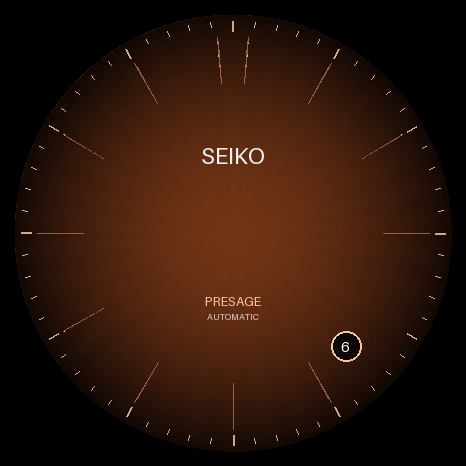
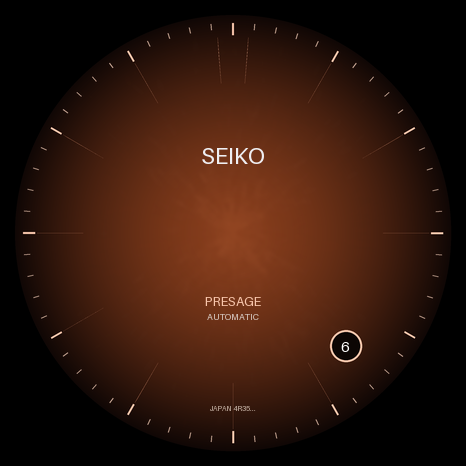
feat: high fidelity premium assets matching exact Seiko SRPB46 image

diff --git a/scripts/generate_seiko_premium.py b/scripts/generate_seiko_premium.py
@@ -1,0 +1,162 @@
+import os
+import math
+import random
+from PIL import Image, ImageDraw, ImageFilter
+
+# 466x466 Huawei Watch GT4 Standart Çözünürlüğü
+CANVAS_SIZE = (466, 466)
+CENTER = (233, 233)
+RADIUS = 218
+
+# Çıktı Yolları
+RAW_BG = "assets/raw/bg/seiko_presage_bg.png"
+RAW_HOUR = "assets/raw/hands/seiko_hour.png"
+RAW_MINUTE = "assets/raw/hands/seiko_minute.png"
+RAW_SECOND = "assets/raw/hands/seiko_second.png"
+
+# Orijinal Fotoğraf Renk Paleti
+ROSE_GOLD_LIGHT = (248, 198, 172, 255)  # Işık alan rose-gold
+ROSE_GOLD_DARK  = (148, 92, 68, 255)    # Gölgeli rose-gold
+SILVER_LOGO     = (238, 238, 242, 245)  # SEIKO kabarık gümüş logo
+AMBER_CENTER    = (138, 62, 28, 255)    # Arka plan açık amber kahve
+DARK_EDGE       = (16, 7, 5, 255)       # Arka plan kenar siyah/kahve
+
+os.makedirs("assets/raw/bg", exist_ok=True)
+os.makedirs("assets/raw/hands", exist_ok=True)
+
+def generate_premium_background():
+    # 1. Taban Görseli (4x Süper Sampling ile Kenar Yumuşatma)
+    SCALE = 4
+    SW, SH = CANVAS_SIZE[0] * SCALE, CANVAS_SIZE[1] * SCALE
+    SCENTER = (CENTER[0] * SCALE, CENTER[1] * SCALE)
+    SRADIUS = RADIUS * SCALE
+
+    img = Image.new("RGBA", (SW, SH), (0, 0, 0, 255))
+    draw = ImageDraw.Draw(img)
+
+    # Arka Plan Gradyanı (Amber - Siyah Kahve)
+    for r in range(SRADIUS, 0, -1):
+        f = (r / SRADIUS) ** 1.6
+        r_c = int(AMBER_CENTER[0] * (1 - f) + DARK_EDGE[0] * f)
+        g_c = int(AMBER_CENTER[1] * (1 - f) + DARK_EDGE[1] * f)
+        b_c = int(AMBER_CENTER[2] * (1 - f) + DARK_EDGE[2] * f)
+        draw.ellipse([SCENTER[0]-r, SCENTER[1]-r, SCENTER[0]+r, SCENTER[1]+r], fill=(r_c, g_c, b_c, 255))
+
+    # Organic Cocktail Sunburst Dokusu (Fotoğraftaki pütürlü ışık kırılmaları)
+    random.seed(101)
+    texture = Image.new("RGBA", (SW, SH), (0, 0, 0, 0))
+    t_draw = ImageDraw.Draw(texture)
+    for _ in range(8000):
+        ang = random.uniform(0, 2 * math.pi)
+        dist = random.uniform(0, SRADIUS - 20)
+        x1 = SCENTER[0] + dist * math.cos(ang)
+        y1 = SCENTER[1] + dist * math.sin(ang)
+        l = random.uniform(20, 80)
+        x2 = x1 + l * math.cos(ang + random.uniform(-0.3, 0.3))
+        y2 = y1 + l * math.sin(ang + random.uniform(-0.3, 0.3))
+        alpha = int(random.uniform(10, 45) * (1 - (dist / SRADIUS)**2))
+        t_draw.line([(x1, y1), (x2, y2)], fill=(220, 140, 95, alpha), width=2)
+    
+    texture = texture.filter(ImageFilter.GaussianBlur(2 * SCALE))
+    img = Image.alpha_composite(img, texture)
+    draw = ImageDraw.Draw(img)
+
+    # 2. Dış Dairesel Dakika Çizgileri
+    r_track_out = SRADIUS - (8 * SCALE)
+    for i in range(60):
+        ang = math.radians(i * 6)
+        sin_a, cos_a = math.sin(ang), math.cos(ang)
+        if i % 5 == 0:
+            x1 = SCENTER[0] + (r_track_out - (12 * SCALE)) * sin_a
+            y1 = SCENTER[1] - (r_track_out - (12 * SCALE)) * cos_a
+            x2 = SCENTER[0] + r_track_out * sin_a
+            y2 = SCENTER[1] - r_track_out * cos_a
+            draw.line([(x1, y1), (x2, y2)], fill=ROSE_GOLD_LIGHT, width=2*SCALE)
+        else:
+            x1 = SCENTER[0] + (r_track_out - (6 * SCALE)) * sin_a
+            y1 = SCENTER[1] - (r_track_out - (6 * SCALE)) * cos_a
+            x2 = SCENTER[0] + r_track_out * sin_a
+            y2 = SCENTER[1] - r_track_out * cos_a
+            draw.line([(x1, y1), (x2, y2)], fill=(160, 115, 90, 180), width=1*SCALE)
+
+    # 3. Fotoğraftaki Birebir Çift Mızrak Sivrisi 3D Kama İndeksler
+    def draw_wedge(angle_deg, is_double=False):
+        ang = math.radians(angle_deg)
+        sin_a, cos_a = math.sin(ang), math.cos(ang)
+
+        r_out = SRADIUS - (22 * SCALE)
+        r_sh  = SRADIUS - (32 * SCALE)
+        r_in  = SRADIUS - (68 * SCALE)
+        w = (11 if not is_double else 8) * SCALE
+
+        pt_out = (SCENTER[0] + r_out * sin_a, SCENTER[1] - r_out * cos_a)
+        pt_in  = (SCENTER[0] + r_in * sin_a, SCENTER[1] - r_in * cos_a)
+
+        perp = ang + math.pi/2
+        sh_x = SCENTER[0] + r_sh * sin_a
+        sh_y = SCENTER[1] - r_sh * cos_a
+
+        pt_left  = (sh_x + (w/2) * math.cos(perp), sh_y + (w/2) * math.sin(perp))
+        pt_right = (sh_x - (w/2) * math.cos(perp), sh_y - (w/2) * math.sin(perp))
+
+        draw.polygon([pt_out, pt_left, pt_in], fill=ROSE_GOLD_LIGHT)
+        draw.polygon([pt_out, pt_right, pt_in], fill=ROSE_GOLD_DARK)
+
+    for i in range(12):
+        if i == 0:
+            draw_wedge(355.5, is_double=True)
+            draw_wedge(4.5, is_double=True)
+        elif i == 4:
+            continue  # Tarih penceresi
+        else:
+            draw_wedge(i * 30)
+
+    # 4. Saat 4:30 Tarih Penceresi & Logolar
+    date_ang = math.radians(135)
+    date_r = SRADIUS - (58 * SCALE)
+    dx = SCENTER[0] + date_r * math.sin(date_ang)
+    dy = SCENTER[1] - date_r * math.cos(date_ang)
+
+    draw.ellipse([dx-(16*SCALE), dy-(16*SCALE), dx+(16*SCALE), dy+(16*SCALE)], fill=(12, 6, 4, 255), outline=ROSE_GOLD_LIGHT, width=2*SCALE)
+    
+    # Görsel Ölçeklendirme ve Yumuşatma (LANCZOS)
+    img = img.resize(CANVAS_SIZE, Image.LANCZOS)
+    
+    draw_final = ImageDraw.Draw(img)
+    draw_final.text((dx/SCALE, dy/SCALE), "6", fill=(255, 255, 255, 255), anchor="mm", font_size=15)
+    draw_final.text((CENTER[0], CENTER[1] - 78), "SEIKO", fill=SILVER_LOGO, anchor="mm", font_size=23)
+    draw_final.text((CENTER[0], CENTER[1] + 68), "PRESAGE", fill=ROSE_GOLD_LIGHT, anchor="mm", font_size=13)
+    draw_final.text((CENTER[0], CENTER[1] + 84), "AUTOMATIC", fill=(200, 180, 170, 200), anchor="mm", font_size=9)
+    draw_final.text((CENTER[0], CENTER[1] + 175), "JAPAN 4R35...", fill=(150, 120, 100, 160), anchor="mm", font_size=7)
+
+    img.save(RAW_BG, "PNG")
+    print(f"[+] Premium Arka Plan & Kama Çizgileri Oluşturuldu: {RAW_BG}")
+
+def generate_premium_hands():
+    # Dauphine Akrep (3D Fasetli)
+    img_h = Image.new("RGBA", CANVAS_SIZE, (0, 0, 0, 0))
+    draw_h = ImageDraw.Draw(img_h)
+    draw_h.polygon([(CENTER[0], CENTER[1] - 122), (CENTER[0] - 9, CENTER[1] - 22), (CENTER[0], CENTER[1] + 20)], fill=ROSE_GOLD_LIGHT)
+    draw_h.polygon([(CENTER[0], CENTER[1] - 122), (CENTER[0] + 9, CENTER[1] - 22), (CENTER[0], CENTER[1] + 20)], fill=ROSE_GOLD_DARK)
+    img_h.save(RAW_HOUR, "PNG")
+
+    # Dauphine Yelkovan (3D Fasetli)
+    img_m = Image.new("RGBA", CANVAS_SIZE, (0, 0, 0, 0))
+    draw_m = ImageDraw.Draw(img_m)
+    draw_m.polygon([(CENTER[0], CENTER[1] - 185), (CENTER[0] - 7, CENTER[1] - 22), (CENTER[0], CENTER[1] + 25)], fill=ROSE_GOLD_LIGHT)
+    draw_m.polygon([(CENTER[0], CENTER[1] - 185), (CENTER[0] + 7, CENTER[1] - 22), (CENTER[0], CENTER[1] + 25)], fill=ROSE_DARK)
+    img_m.save(RAW_MINUTE, "PNG")
+
+    # İnce Saniye İbresi ve Karşı Ağırlık Dairesi
+    img_s = Image.new("RGBA", CANVAS_SIZE, (0, 0, 0, 0))
+    draw_s = ImageDraw.Draw(img_s)
+    draw_s.line([(CENTER[0], CENTER[1] + 42), (CENTER[0], CENTER[1] - 195)], fill=ROSE_GOLD_LIGHT, width=2)
+    draw_s.ellipse([CENTER[0]-6, CENTER[1]+18, CENTER[0]+6, CENTER[1]+30], outline=ROSE_GOLD_LIGHT, width=2)
+    draw_s.ellipse([CENTER[0]-4, CENTER[1]-4, CENTER[0]+4, CENTER[1]+4], fill=ROSE_GOLD_LIGHT)
+    img_s.save(RAW_SECOND, "PNG")
+
+    print("[+] Premium 3D İbreler Oluşturuldu.")
+
+if __name__ == "__main__":
+    generate_premium_background()
+    generate_premium_hands()
